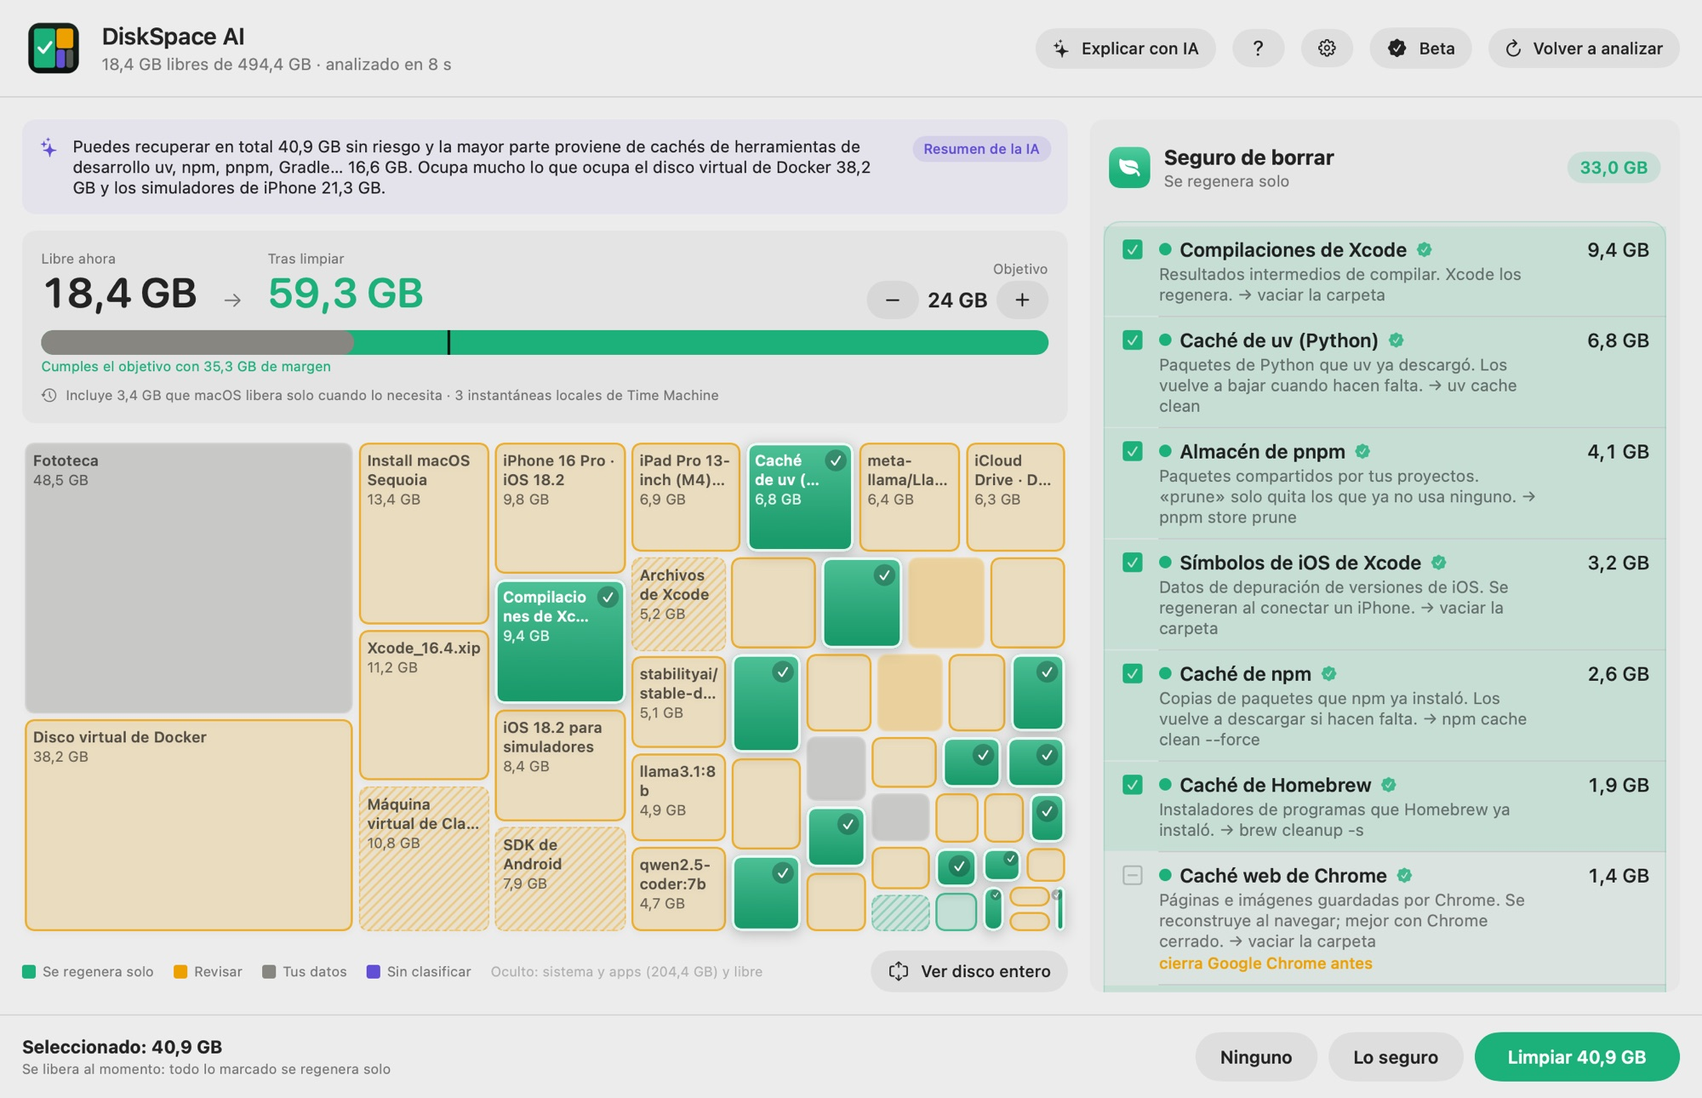
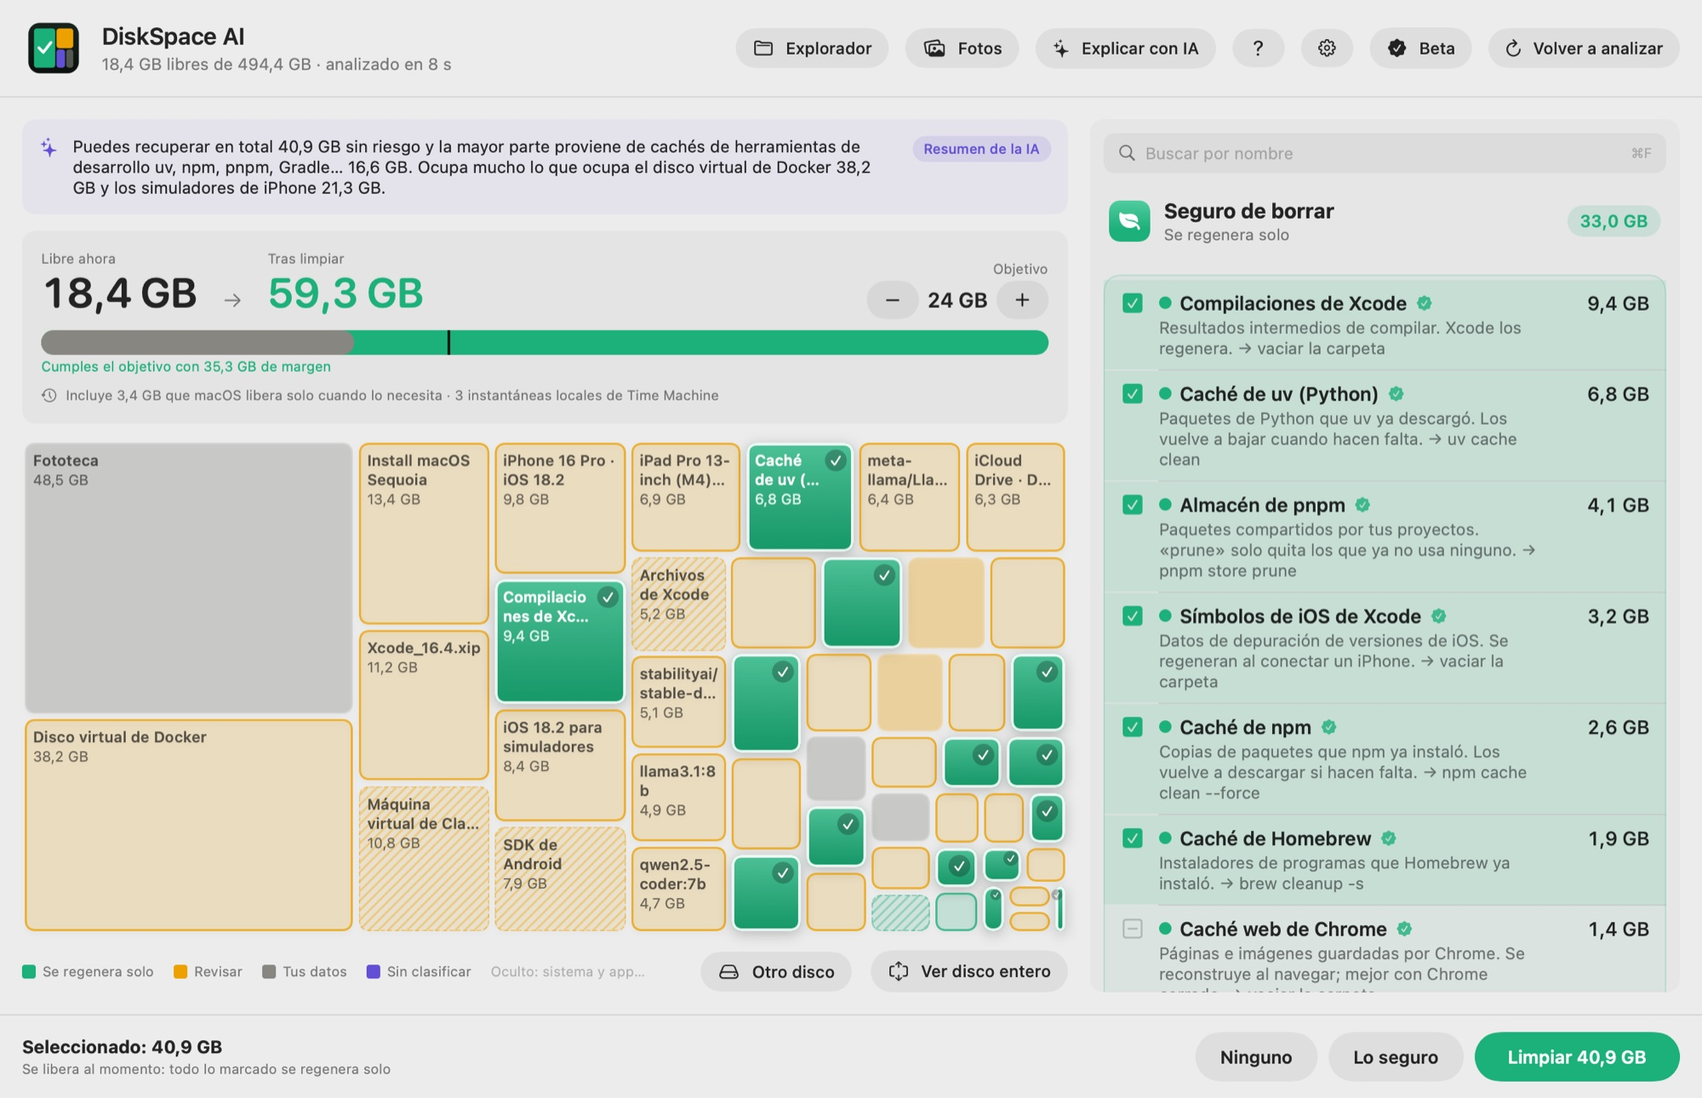
DiskSpace AI 1.0.14: demo GIF, badges, Photos, Archive and Explorer, release notes up to date

diff --git a/CHANGELOG.es.md b/CHANGELOG.es.md
@@ -2,6 +2,57 @@
 
 DiskSpace AI se actualiza sola. También en [diskspaceai.com/es/novedades](https://diskspaceai.com/es/novedades).
 
+## 1.0.14
+
+- Explorador: una ventana como el Explorador de Windows, pero con lo que ocupa de verdad cada carpeta. Árbol a la izquierda, tabla ordenable con tamaño, porcentaje, clase y fecha, y filtro por nombre. Pulsa «Explorador» arriba o ⇧⌘E.
+- «Este Mac»: tus discos con su espacio libre y lo que ocupa cada carpeta tuya, de un vistazo.
+- Intro abre, ⌫ sube, espacio es la Vista Rápida. Con el clic derecho, archivar o apartar 7 días lo tuyo, siempre preguntando.
+
+## 1.0.13
+
+- Archivo → «Archivar una carpeta…» (⇧⌘A): elige cualquier carpeta o archivo tuyo y verás cuánto ahorrarías antes de archivarlo.
+- «Para archivar» está siempre en la lista, con «Elegir…» para archivar lo que tú decidas.
+- Por seguridad, no deja archivar carpetas de macOS enteras, lo de Library, apps ni bibliotecas.
+
+## 1.0.12
+
+- Archivar en vez de borrar: los proyectos sin cambios desde hace meses y los archivos grandes olvidados que comprimen bien aparecen en «Para archivar», con lo que ahorrarías medido de verdad.
+- «Archivar» crea un .zip junto al original (se abre con doble clic en cualquier Mac), lo comprueba entero y solo entonces aparta el original 7 días, con «Deshacer». Si algo falla, no se toca nada.
+- También con el clic derecho → «Archivar…» en los archivos grandes olvidados.
+
+## 1.0.11
+
+- Fotos parecidas: las fotos casi iguales hechas seguidas, agrupadas. La IA de Apple, en tu Mac, propone quedarte con la mejor de cada grupo.
+- Duplicados en Fotos: copias exactas de la misma foto o vídeo. Ves cada grupo junto, con la que se queda marcada, o puedes fusionarlos con la herramienta de Fotos.
+- Fotos y vídeos duplicados en tus carpetas (Imágenes, Descargas, Escritorio…), aunque sean pequeños. Se queda la del sitio más estable.
+- Doble clic en una foto para verla en grande antes de decidir.
+
+## 1.0.10
+
+- Botón «Fotos» arriba, para revisar las capturas, los vídeos grandes y las ráfagas de tu fototeca sin buscarlo en los menús.
+- Fotos y vídeos: la app se cerraba al pulsar «Quitar». Ya funciona: macOS te pide confirmación y lo que quites va a «Eliminado recientemente».
+- Las miniaturas de Fotos ya no se pisan unas a otras.
+
+## 1.0.9
+
+- Fotos y vídeos: revisa las capturas de pantalla, los vídeos de más de 100 MB y las fotos sobrantes de las ráfagas de tu fototeca. Nada viene marcado, y lo que quites va a «Eliminado recientemente» de Fotos (30 días). Ábrelo desde la fila «Fototeca» o en Edición → Revisar fotos y vídeos…
+- Otro disco: mira qué ocupa un disco externo en el mapa, con la lupa, la búsqueda y la Vista Rápida. Solo para mirar.
+- Capturas de pantalla del Escritorio: aparecen juntas para revisarlas; las que limpies se apartan 7 días.
+
+## 1.0.8
+
+- Instaladores ya usados: el .dmg de una app que ya tienes instalada, o el .zip que ya descomprimiste, pasan a «se puede borrar sin riesgo». Lo que contenían ya está en tu Mac.
+- Vista Rápida: pulsa la barra espaciadora sobre un bloque del mapa o una fila para ver qué es sin abrir nada, como en el Finder. También en el menú del clic derecho.
+- Búsqueda: escribe arriba de la lista (o pulsa ⌘F) y verás solo lo que coincide; en el mapa se apaga el resto.
+- Pro incluye las actualizaciones gratis.
+
+## 1.0.7
+
+- Licencias listas: cuando compres Pro, pega la clave del correo y pulsa Activar. Vale en hasta 3 Macs y la puedes pasar de uno a otro.
+- ¿Has perdido tu clave? Un enlace junto a la casilla te lleva a tus pedidos, donde la recuperas con tu correo.
+- Aviso del fin de la beta: en diciembre verás cuántos días quedan, y el 1 de enero la app te explica qué sigue siendo gratis. Nada deja de funcionar de golpe ni sin avisar.
+- Si la limpieza semanal se pausa por no tener Pro, el panel de la barra de menús lo dice.
+
 ## 1.0.6
 
 - La Ayuda explica con claridad qué sale de tu Mac: solo la comprobación de la licencia y de actualizaciones, y, si conectas un agente de IA en la nube, los nombres de carpetas y tamaños que le respondes (nunca el contenido de tus archivos).

diff --git a/README.es.md b/README.es.md
@@ -3,6 +3,12 @@
 <p align="center"><b>Libera espacio en tu Mac sin miedo.</b><br>
 Te dice qué es cada carpeta y solo marca lo que se regenera solo. Tus archivos se apartan 7 días, por si te equivocas.</p>
 <p align="center">
+  <a href="https://diskspaceai.com/download"><img alt="Versión 1.0.14" src="https://img.shields.io/badge/versi%C3%B3n-1.0.14-0b8a5c"></a>
+  <img alt="macOS 15+" src="https://img.shields.io/badge/macOS-15%2B-1d1d1f?logo=apple">
+  <img alt="Apple silicon e Intel" src="https://img.shields.io/badge/Apple%20silicon%20e%20Intel-universal-48484a">
+  <a href="https://diskspaceai.com/es/beta"><img alt="Beta gratis" src="https://img.shields.io/badge/beta-gratis%20hasta%20el%2031%20dic-1baf7a"></a>
+</p>
+<p align="center">
   <a href="https://diskspaceai.com/es/"><b>Web</b></a> ·
   <a href="https://diskspaceai.com/es/beta"><b>Descargar la beta</b></a> ·
   <a href="https://diskspaceai.com/es/#demo">Demo interactiva</a> ·
@@ -10,22 +16,27 @@ Te dice qué es cada carpeta y solo marca lo que se regenera solo. Tus archivos 
   <a href="README.md">English</a>
 </p>
 
-<p align="center"><img src="assets/app-es.jpg" alt="Ventana de DiskSpace AI: mapa del disco por colores y lista de lo que se puede limpiar"></p>
+<p align="center"><img src="assets/demo.gif" width="800" alt="Animación: el disco lleno, el mapa por colores, lo verde se marca y se libera espacio"></p>
 
 Este repositorio es la **documentación pública** de DiskSpace AI: el catálogo de carpetas que conoce la app, cómo conectarla con tu agente de IA, las novedades y el sitio para avisar de errores o pedir mejoras. La app no es de código abierto.
 
 ## Qué hace
 
-- **Sabe qué es cada carpeta.** Cachés de uv, npm, pnpm y Homebrew, compilaciones de Xcode, node_modules de proyectos parados, Docker, modelos de IA, simuladores… Las que no conoce te las explica la IA de Apple, en tu Mac.
+- **Sabe qué es cada carpeta.** Cachés de uv, npm, pnpm y Homebrew, compilaciones de Xcode, node_modules de proyectos parados, Docker, modelos de IA, simuladores, instaladores que ya usaste… Las que no conoce te las explica la IA de Apple, en tu Mac.
 - **Cuatro colores, una regla.** Verde se regenera solo y viene marcado; ámbar se revisa; gris son tus datos y solo se enseñan; morado está sin clasificar.
 - **Con red.** Lo que se regenera solo se borra al momento; lo tuyo se aparta 7 días y se puede deshacer.
+- **Fotos duplicadas y parecidas.** En tu fototeca y en tus carpetas: duplicados exactos, fotos casi iguales (Vision de Apple elige la mejor, en tu Mac), capturas viejas, vídeos grandes y ráfagas.
+- **Archivar en vez de borrar.** Lo que no usas pero quieres guardar va a un .zip comprobado entero antes de apartar el original.
+- **Un Explorador con tamaños.** Árbol de carpetas y tabla ordenada por tamaño, con Vista Rápida y filtro: lo que el Finder no te enseña.
 - **Cifras de verdad.** Los clones de APFS y los enlaces duros se cuentan una vez, y Docker enseña lo que ocupa de verdad.
 - **Para tu agente de IA.** Claude Code, Claude Desktop, Codex o Cursor pueden analizar el disco y proponer una limpieza; para limpiar siempre te piden permiso. [Cómo conectarlo](mcp/README.es.md)
 - **Tus archivos no salen de tu Mac.** Sin analítica ni seguimiento.
 
+<p align="center"><img src="assets/app-es.jpg" alt="Ventana de DiskSpace AI: mapa del disco por colores y lista de lo que se puede limpiar"></p>
+
 ## Descargar
 
-[DiskSpace AI 1.0.6 para Mac](https://diskspaceai.com/download) · macOS 15 o posterior · Apple silicon e Intel. Durante la beta, Pro es gratis hasta el 31 de diciembre de 2026. Pasos de instalación en [la página de la beta](https://diskspaceai.com/es/beta).
+[DiskSpace AI 1.0.14 para Mac](https://diskspaceai.com/download) · macOS 15 o posterior · Apple silicon e Intel. Durante la beta, Pro es gratis hasta el 31 de diciembre de 2026. Pasos de instalación en [la página de la beta](https://diskspaceai.com/es/beta).
 
 La app se actualiza sola. Lo que cambia en cada versión está en [CHANGELOG.es.md](CHANGELOG.es.md).
 

diff --git a/CHANGELOG.md b/CHANGELOG.md
@@ -2,6 +2,57 @@
 
 DiskSpace AI updates itself. Also at [diskspaceai.com/whats-new](https://diskspaceai.com/whats-new).
 
+## 1.0.14
+
+- Explorer: a window like Windows Explorer, but with what each folder really takes. A tree on the left, a sortable table with size, percentage, kind and date, and a name filter. Click “Explorer” at the top or press ⇧⌘E.
+- “This Mac”: your drives with their free space and what each of your folders takes, at a glance.
+- Return opens, ⌫ goes up, space is Quick Look. With right-click, archive or set aside your own things for 7 days, always asking first.
+
+## 1.0.13
+
+- File → “Archive a Folder…” (⇧⌘A): choose any folder or file of yours and see how much you'd save before archiving it.
+- “To Archive” is always in the list, with “Choose…” to archive whatever you decide.
+- For safety, whole macOS folders, Library, apps and libraries can't be archived.
+
+## 1.0.12
+
+- Archive instead of delete: projects unchanged for months and large forgotten files that compress well show up under “To Archive”, with the savings actually measured.
+- “Archive” creates a .zip next to the original (it opens with a double-click on any Mac), checks it fully, and only then sets the original aside for 7 days, with Undo. If anything fails, nothing is touched.
+- Also with right-click → “Archive…” on large forgotten files.
+
+## 1.0.11
+
+- Similar photos: nearly identical shots taken in a row, grouped. Apple's AI, on your Mac, suggests keeping the best one in each group.
+- Duplicates in Photos: exact copies of the same photo or video. See each group together with the one that stays marked, or merge them with Photos' own tool.
+- Duplicate photos and videos in your folders (Pictures, Downloads, Desktop…), even small ones. The one in the most stable place stays.
+- Double-click a photo to see it large before deciding.
+
+## 1.0.10
+
+- A “Photos” button at the top, to review the screenshots, large videos and bursts in your library without digging through menus.
+- Photos and videos: the app quit when you clicked “Remove”. It works now: macOS asks you to confirm and what you remove goes to “Recently Deleted”.
+- Photo thumbnails no longer overlap each other.
+
+## 1.0.9
+
+- Photos and videos: review the screenshots, videos over 100 MB and extra burst photos in your library. Nothing is preselected, and what you remove goes to Photos' “Recently Deleted” (30 days). Open it from the “Photos library” row or Edit → Review Photos and Videos…
+- Other drive: see what's taking space on an external drive on the map, with the magnifier, search and Quick Look. View only.
+- Desktop screenshots: they show up together so you can review them; the ones you clean are kept 7 days.
+
+## 1.0.8
+
+- Installers already used: the .dmg of an app you already have installed, or a .zip you already extracted, now show as safe to delete. What they contained is already on your Mac.
+- Quick Look: press the space bar over a block on the map or a row to see what it is without opening anything, like in the Finder. It's also in the right-click menu.
+- Search: type above the list (or press ⌘F) to see only what matches; the rest dims on the map.
+- Pro includes free updates.
+
+## 1.0.7
+
+- Licenses are ready: when you buy Pro, paste the key from the email and click Activate. It works on up to 3 Macs and you can move it from one to another.
+- Lost your key? A link next to the box takes you to your orders, where you get it back with your email.
+- End-of-beta notice: in December you'll see how many days are left, and on January 1 the app explains what stays free. Nothing stops working suddenly or without warning.
+- If the weekly cleanup pauses because you don't have Pro, the menu bar panel says so.
+
 ## 1.0.6
 
 - Help now explains clearly what leaves your Mac: only the license and update checks, and, if you connect a cloud AI agent, the folder names and sizes the app returns to it (never the contents of your files).

diff --git a/README.md b/README.md
@@ -3,6 +3,12 @@
 <p align="center"><b>Free up space on your Mac without fear.</b><br>
 It tells you what every folder is and only selects what recreates itself. Your files are kept for 7 days, in case you change your mind.</p>
 <p align="center">
+  <a href="https://diskspaceai.com/download"><img alt="Version 1.0.14" src="https://img.shields.io/badge/version-1.0.14-0b8a5c"></a>
+  <img alt="macOS 15+" src="https://img.shields.io/badge/macOS-15%2B-1d1d1f?logo=apple">
+  <img alt="Apple silicon and Intel" src="https://img.shields.io/badge/Apple%20silicon%20%26%20Intel-universal-48484a">
+  <a href="https://diskspaceai.com/beta"><img alt="Free beta" src="https://img.shields.io/badge/beta-free%20until%20Dec%2031-1baf7a"></a>
+</p>
+<p align="center">
   <a href="https://diskspaceai.com/"><b>Website</b></a> ·
   <a href="https://diskspaceai.com/beta"><b>Download the beta</b></a> ·
   <a href="https://diskspaceai.com/#demo">Interactive demo</a> ·
@@ -10,22 +16,27 @@ It tells you what every folder is and only selects what recreates itself. Your f
   <a href="README.es.md">Español</a>
 </p>
 
-<p align="center"><img src="assets/app.jpg" alt="DiskSpace AI window: disk map colored by safety and list of what can be cleaned"></p>
+<p align="center"><img src="assets/demo.gif" width="800" alt="Animation: a full disk, the color map, green items get selected and space is freed"></p>
 
 This repository is DiskSpace AI's **public documentation**: the catalog of folders the app knows, how to connect it to your AI agent, the release notes, and the place to report bugs or request features. The app itself is not open source.
 
 ## What it does
 
-- **It knows what every folder is.** uv, npm, pnpm and Homebrew caches, Xcode build data, node_modules from idle projects, Docker, AI models, simulators… The ones it doesn't know are explained by Apple's AI, on your Mac.
+- **It knows what every folder is.** uv, npm, pnpm and Homebrew caches, Xcode build data, node_modules from idle projects, Docker, AI models, simulators, installers you already used… The ones it doesn't know are explained by Apple's AI, on your Mac.
 - **Four colors, one rule.** Green recreates itself and comes selected; amber is for review; gray is your data and is only shown; purple is unclassified.
 - **With a safety net.** What recreates itself is deleted right away; your files are set aside for 7 days and can be restored.
+- **Duplicate and similar photos.** In your Photos library and your folders: exact duplicates, near-identical shots (Apple's Vision picks the best one, on your Mac), old screenshots, big videos and bursts.
+- **Archive instead of delete.** What you don't use but want to keep goes into a .zip that's fully verified before the original is set aside.
+- **An Explorer with sizes.** A folder tree and a table sorted by size, with Quick Look and a filter: what Finder doesn't show you.
 - **Honest numbers.** APFS clones and hard links are counted once, and Docker shows what it really takes up.
 - **For your AI agent.** Claude Code, Claude Desktop, Codex or Cursor can analyze the disk and propose a cleanup; they always ask before cleaning. [How to connect it](mcp/README.md)
 - **Your files never leave your Mac.** No analytics or tracking.
 
+<p align="center"><img src="assets/app.jpg" alt="DiskSpace AI window: disk map colored by safety and list of what can be cleaned"></p>
+
 ## Download
 
-[DiskSpace AI 1.0.6 for Mac](https://diskspaceai.com/download) · macOS 15 or later · Apple silicon and Intel. During the beta, Pro is free until December 31, 2026. Install steps on [the beta page](https://diskspaceai.com/beta).
+[DiskSpace AI 1.0.14 for Mac](https://diskspaceai.com/download) · macOS 15 or later · Apple silicon and Intel. During the beta, Pro is free until December 31, 2026. Install steps on [the beta page](https://diskspaceai.com/beta).
 
 The app updates itself. What changes in each version is in [CHANGELOG.md](CHANGELOG.md).
 

diff --git a/carpetas/README.md b/carpetas/README.md
@@ -1,6 +1,6 @@
 # Qué es cada carpeta de tu Mac y si se puede borrar
 
-Las 68 carpetas y cachés que conoce DiskSpace AI. **Se regenera solo**: la herramienta que lo creó lo vuelve a crear. **Revisar**: puede guardar algo tuyo. **Tus datos**: no se borra. Cada una tiene su página en la [guía de la web](https://diskspaceai.com/es/carpetas).
+Las 70 carpetas y cachés que conoce DiskSpace AI. **Se regenera solo**: la herramienta que lo creó lo vuelve a crear. **Revisar**: puede guardar algo tuyo. **Tus datos**: no se borra. Cada una tiene su página en la [guía de la web](https://diskspaceai.com/es/carpetas).
 
 También en [JSON](carpetas.json), para usarlo en tus scripts. ¿Falta alguna? [Abre una incidencia](../../../issues/new/choose).
 
@@ -103,6 +103,7 @@ También en [JSON](carpetas.json), para usarlo en tus scripts. ¿Falta alguna? [
 
 | Carpeta | Dónde | Veredicto | Cómo liberarla |
 |---|---|---|---|
+| [Instaladores ya usados](https://diskspaceai.com/es/carpetas/used-installers)<br><sub>Instaladores de apps que ya tienes instaladas y comprimidos que ya descomprimiste: lo que contenían ya está en tu Mac. Si algún día los necesitas, se vuelven a descargar.</sub> | `~/Downloads/<instaladores de apps ya instaladas y comprimidos ya descomprimidos>` | 🟢 Se regenera solo | Borrándola (a la papelera). |
 | [Instaladores en Descargas](https://diskspaceai.com/es/carpetas/downloaded-installers)<br><sub>Instaladores y archivos comprimidos descargados. Normalmente ya no hacen falta.</sub> | `~/Downloads/*.dmg, *.pkg, *.zip, *.iso, *.xip` | 🟠 Revisar | Borrándola (a la papelera). |
 
 ## Tus datos
@@ -110,6 +111,7 @@ También en [JSON](carpetas.json), para usarlo en tus scripts. ¿Falta alguna? [
 | Carpeta | Dónde | Veredicto | Cómo liberarla |
 |---|---|---|---|
 | [Copias de seguridad del iPhone](https://diskspaceai.com/es/carpetas/ios-backups)<br><sub>Copias locales de tus dispositivos.</sub> | `~/Library/Application Support/MobileSync/Backup` | 🟠 Revisar | Gestionar desde Finder → tu iPhone → Gestionar copias. |
+| [Capturas de pantalla del Escritorio](https://diskspaceai.com/es/carpetas/desktop-screenshots)<br><sub>Capturas y grabaciones de pantalla que macOS guarda en el Escritorio. Mira si alguna te hace falta: las que limpies se apartan 7 días.</sub> | `~/Desktop/Captura de pantalla *, Screenshot *, Grabación de pantalla *, Screen Recording *, CleanShot *` | 🟠 Revisar | Borrándola (a la papelera). |
 | [Papelera](https://diskspaceai.com/es/carpetas/trash)<br><sub>Archivos que ya borraste.</sub> | `~/.Trash` | 🟠 Revisar | Vaciar la papelera desde el Finder. |
 | [Perfiles de Chrome](https://diskspaceai.com/es/carpetas/chrome-profiles)<br><sub>Historial, sesiones y extensiones.</sub> | `~/Library/Application Support/Google/Chrome/Default, Profile *` | ⚪ Tus datos | Son tus datos de navegación. |
 | [Fototeca](https://diskspaceai.com/es/carpetas/photos-library)<br><sub>Tus fotos y vídeos.</sub> | `~/Pictures/*.photoslibrary` | ⚪ Tus datos | Fotos → Ajustes → iCloud → Optimizar almacenamiento. |

diff --git a/folders/README.md b/folders/README.md
@@ -1,6 +1,6 @@
 # What every folder on your Mac is, and whether you can delete it
 
-The 68 folders and caches DiskSpace AI knows. **Recreates itself**: the tool that made it creates it again. **Review**: it may hold something of yours. **Your data**: don't delete it. Each one has its own page in the [web guide](https://diskspaceai.com/folders).
+The 70 folders and caches DiskSpace AI knows. **Recreates itself**: the tool that made it creates it again. **Review**: it may hold something of yours. **Your data**: don't delete it. Each one has its own page in the [web guide](https://diskspaceai.com/folders).
 
 Also as [JSON](folders.json), to use in your scripts. Missing one? [Open an issue](../../../issues/new/choose).
 
@@ -103,6 +103,7 @@ Also as [JSON](folders.json), to use in your scripts. Missing one? [Open an issu
 
 | Folder | Where | Verdict | How to free it |
 |---|---|---|---|
+| [Installers already used](https://diskspaceai.com/folders/used-installers)<br><sub>Installers of apps you already have installed and archives you already extracted: what they contained is already on your Mac. If you ever need them, they can be downloaded again.</sub> | `~/Downloads/<installers of installed apps and already extracted archives>` | 🟢 Recreates itself | By deleting it (to the Trash). |
 | [Installers in Downloads](https://diskspaceai.com/folders/downloaded-installers)<br><sub>Downloaded installers and archives. Usually no longer needed.</sub> | `~/Downloads/*.dmg, *.pkg, *.zip, *.iso, *.xip` | 🟠 Review | By deleting it (to the Trash). |
 
 ## Your data
@@ -110,6 +111,7 @@ Also as [JSON](folders.json), to use in your scripts. Missing one? [Open an issu
 | Folder | Where | Verdict | How to free it |
 |---|---|---|---|
 | [iPhone backups](https://diskspaceai.com/folders/ios-backups)<br><sub>Local backups of your devices.</sub> | `~/Library/Application Support/MobileSync/Backup` | 🟠 Review | Manage from Finder → your iPhone → Manage Backups. |
+| [Desktop screenshots](https://diskspaceai.com/folders/desktop-screenshots)<br><sub>Screenshots and screen recordings macOS saves on the Desktop. Check whether you need any: the ones you clean are kept 7 days.</sub> | `~/Desktop/Captura de pantalla *, Screenshot *, Grabación de pantalla *, Screen Recording *, CleanShot *` | 🟠 Review | By deleting it (to the Trash). |
 | [Trash](https://diskspaceai.com/folders/trash)<br><sub>Files you already deleted.</sub> | `~/.Trash` | 🟠 Review | Empty the Trash from the Finder. |
 | [Chrome profiles](https://diskspaceai.com/folders/chrome-profiles)<br><sub>History, sessions and extensions.</sub> | `~/Library/Application Support/Google/Chrome/Default, Profile *` | ⚪ Your data | This is your browsing data. |
 | [Photos library](https://diskspaceai.com/folders/photos-library)<br><sub>Your photos and videos.</sub> | `~/Pictures/*.photoslibrary` | ⚪ Your data | Photos → Settings → iCloud → Optimize Mac Storage. |
